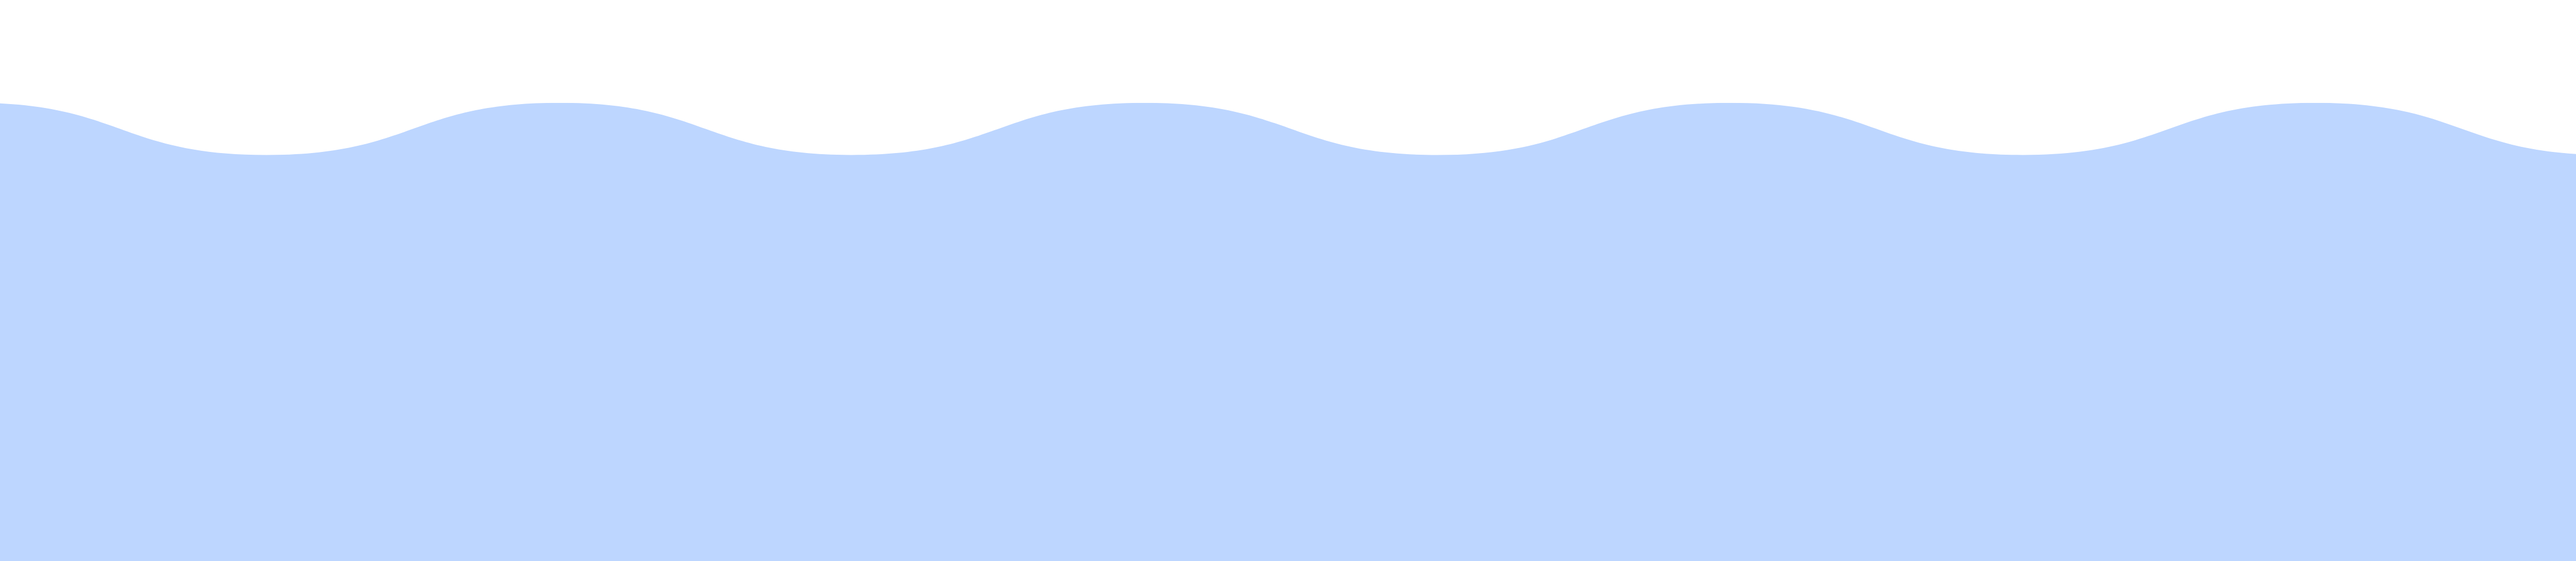
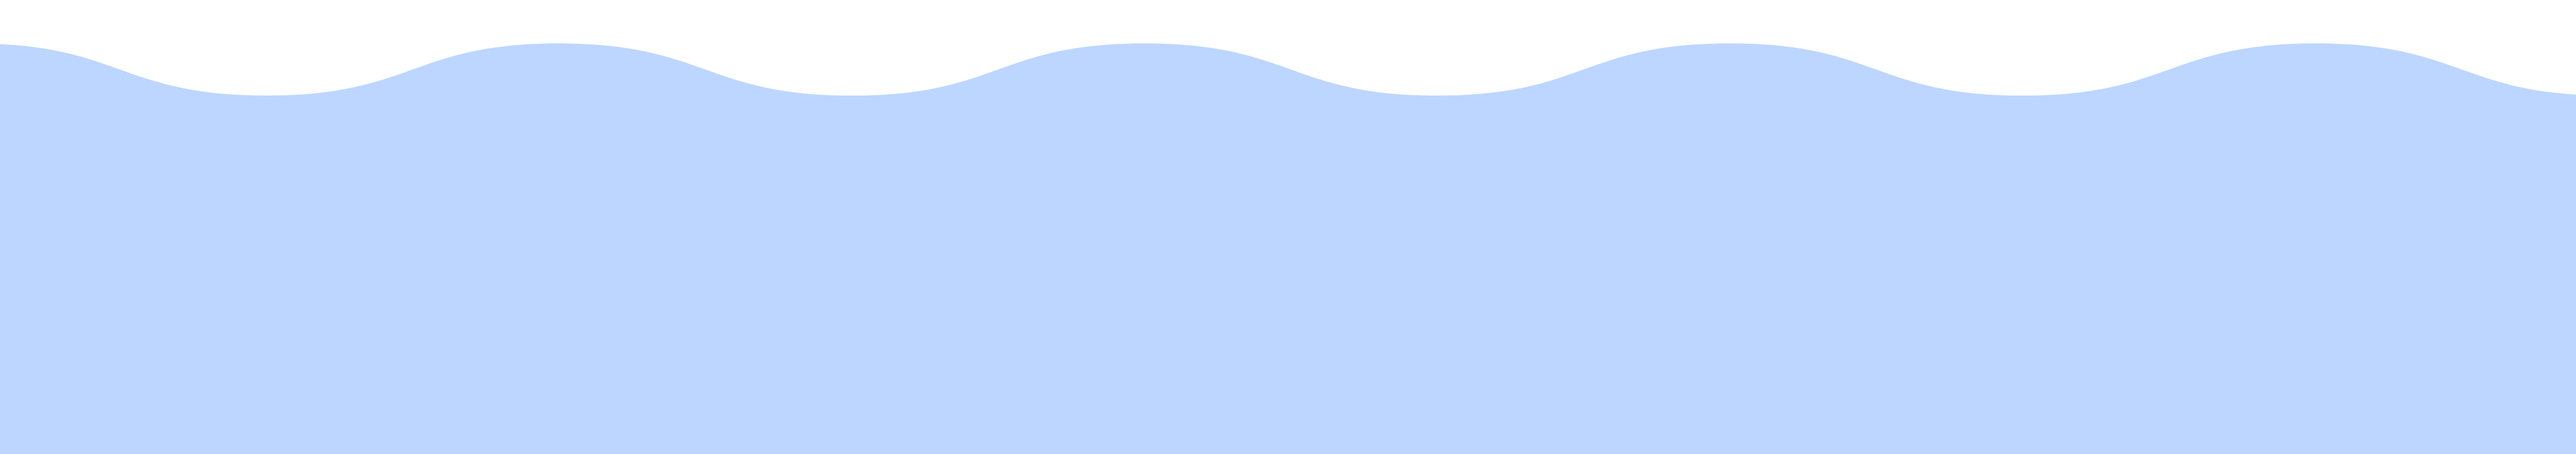
Add header navigation

Changed region(s): [[0.0, 0.0919, 1.0, 0.2757]]

diff --git a/style.css b/style.css
@@ -19,8 +19,9 @@
   /* background: linear-gradient(to top, #d2e2fb 30%, #86a8db); */
   background: linear-gradient(
     to top,
-    var(--secondary-color) 30%,
-    var(--tertiary-color)
+    #fff,
+    var(--secondary-color) 50%,
+    #b4d0ff
   );
   position: relative;
   overflow: hidden;
@@ -37,7 +38,7 @@
   display: flex;
   flex-direction: column;
   position: absolute;
-  top: 30%;
+  top: 40%;
   left: 50%;
   transform: translate(-50%, -50%);
   /* margin: 30px auto; */
@@ -60,20 +61,21 @@
 }
 .name {
   margin: 0;
-  font-size: 200px;
+  font-size: 180px;
 
   text-shadow: 0px 0px 4px rgba(0, 0, 0, 0.5);
   line-height: 0.7;
 }
 .me-desc {
   margin: 30px auto;
-  font-size: 30px;
+  font-size: 25px;
   font-weight: 300;
   text-align: center;
   color: var(--accent-color);
 }
 
-a {
+.title a,
+.proj-desc a {
   text-decoration: none;
   color: var(--primary-color);
   background-color: var(--tertiary-color);
@@ -94,7 +96,7 @@ a {
   }
 
   .title a {
-    font-size: 20px;
+    font-size: 15px;
   }
 }
 
@@ -112,7 +114,7 @@ a {
   }
 
   .title a {
-    font-size: 15px;
+    font-size: 12px;
   }
 }
 
@@ -169,4 +171,48 @@ h2 {
   .proj-desc a {
     margin: 0 auto;
   }
+}
+
+header {
+  display: flex;
+  justify-content: space-between;
+  align-items: center;
+  height: 100px;
+  padding: 0 5%;
+  /* position: absolute; */
+  position: fixed;
+  width: 100%;
+  z-index: 100;
+  background: linear-gradient(to top, transparent, #b4d0ff);
+}
+header h1 {
+  font-size: 40px;
+  color: white;
+  text-shadow: 0px 0px 4px rgba(0, 0, 0, 0.25);
+}
+header nav {
+  display: flex;
+  gap: 20px;
+}
+header nav a {
+  text-decoration: none;
+  font-size: 15px;
+  /* font-weight: 600; */
+  padding: 8px 16px;
+  border-radius: 15px;
+  transition: 0.3s;
+  color: white;
+  text-shadow: 0px 0px 4px rgba(0, 0, 0, 0.25);
+}
+header nav a.active {
+  /* background-color: var(--tertiary-color); */
+  text-decoration: underline;
+  text-underline-offset: 5px;
+}
+header nav a:hover {
+  text-decoration: underline;
+  text-underline-offset: 5px;
+}
+header nav:hover > a:not(:hover) {
+  background: none;
 }

diff --git a/index.html b/index.html
@@ -24,11 +24,21 @@
     <title>Marienne</title>
   </head>
   <body>
+    <header>
+      <h1 class="header-logo">*m</h1>
+      <nav>
+        <a href="#" class="active">Home</a>
+        <a href="#">About</a>
+        <a href="#">Work</a>
+        <a href="#">Contact</a>
+      </nav>
+    </header>
     <main>
       <section class="home">
         <img src="images/wavy1.png" class="wavy1" alt="" />
         <img src="images/table.png" class="table" alt="" />
         <img src="images/woman.png" class="woman" alt="" />
+
         <img src="images/dots1.png" class="dots1" alt="" />
         <img src="images/dots2.png" class="dots2" alt="" />
         <div class="title">

diff --git a/app.js b/app.js
@@ -17,6 +17,10 @@ document.addEventListener("scroll", function () {
   woman.style.marginBottom = -value + "px";
   woman.style.marginLeft = -value + "px";
 
-  wavy1.style.marginBottom = -value * 1.1 + "px";
+  wavy1.style.marginBottom = -value * 1.5 + "px";
   table.style.marginBottom = -value * 1.2 + "px";
 });
+
+// document.addEventListener("resize", function() {
+//   let value = window.
+// })
